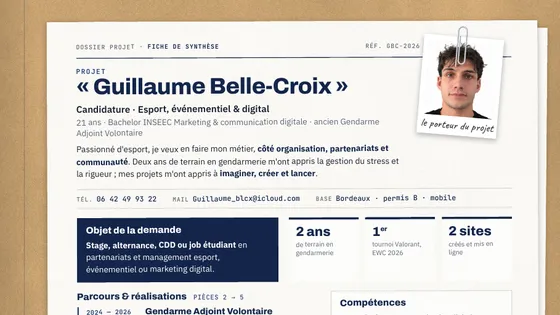
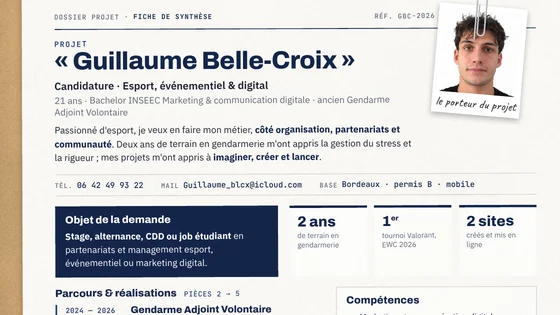
Vignettes Dossier et CV recadrées sans bords clairs, survol rose
Claude-Session: https://claude.ai/code/session_012wzja54trYe7YAVCXgccqo

diff --git a/index.html b/index.html
@@ -109,7 +109,7 @@ a{color:inherit}
 .tile{position:relative;display:block;aspect-ratio:16/9;border-radius:8px;overflow:hidden;background:#15131f center/cover no-repeat;text-decoration:none;color:var(--ink);
   border:1px solid rgba(255,255,255,.08);cursor:pointer;font:inherit;text-align:left;padding:0;transition:transform .18s ease,border-color .18s ease}
 .tile::after{content:"";position:absolute;inset:0;background:linear-gradient(0deg,rgba(11,10,18,.92) 0%,rgba(11,10,18,.1) 62%)}
-.tile:hover,.tile:focus-visible{transform:translateY(-3px);border-color:rgba(255,255,255,.5)}
+.tile:hover,.tile:focus-visible{transform:translateY(-3px);border-color:rgba(255,46,99,.7)}
 .tile .t{pointer-events:none;position:absolute;z-index:1;left:14px;right:14px;bottom:12px;display:grid;gap:2px}
 .tile b{font-family:var(--display);font-weight:800;font-size:22px;line-height:1;text-transform:uppercase;letter-spacing:.02em}
 .tile small{font-size:12.5px;color:#bdb7c9}
@@ -228,10 +228,10 @@ img.ph{width:100%;object-fit:cover;display:block}
     <h2>Continuer</h2>
     <div class="tiles">
       <button class="tile" type="button" id="tile-cv" style="background-image:url(img/t_cv.webp?v=2)"><span class="bdg">3D</span><span class="t"><b>CV immersif</b></span></button>
-      <div class="tile pdf" style="background-image:url(img/t_dossier.webp?v=2);background-position:center top"><a class="cover" href="cv/CV_Guillaume_Belle-Croix_dossier.pdf?v=2" target="_blank" rel="noopener" aria-label="Voir le dossier"></a>
+      <div class="tile pdf" style="background-image:url(img/t_dossier.webp?v=3);background-position:center top"><a class="cover" href="cv/CV_Guillaume_Belle-Croix_dossier.pdf?v=2" target="_blank" rel="noopener" aria-label="Voir le dossier"></a>
         <span class="t"><b>Dossier</b><small>PDF · 7 pages</small></span>
         <span class="acts"><a href="cv/CV_Guillaume_Belle-Croix_dossier.pdf?v=2" target="_blank" rel="noopener">Voir</a><a href="cv/CV_Guillaume_Belle-Croix_dossier.pdf?v=2" download="CV_Guillaume_Belle-Croix_dossier.pdf" aria-label="Télécharger le dossier">↓</a></span></div>
-      <div class="tile pdf" style="background-image:url(img/t_fiche.webp);background-position:center top"><a class="cover" href="cv/CV_Guillaume_Belle-Croix_1page.pdf?v=4" target="_blank" rel="noopener" aria-label="Voir le CV 1 page"></a>
+      <div class="tile pdf" style="background-image:url(img/t_fiche.webp?v=2);background-position:center top"><a class="cover" href="cv/CV_Guillaume_Belle-Croix_1page.pdf?v=4" target="_blank" rel="noopener" aria-label="Voir le CV 1 page"></a>
         <span class="t"><b>CV</b><small>PDF · 1 page</small></span>
         <span class="acts"><a href="cv/CV_Guillaume_Belle-Croix_1page.pdf?v=4" target="_blank" rel="noopener">Voir</a><a href="cv/CV_Guillaume_Belle-Croix_1page.pdf?v=4" download="CV_Guillaume_Belle-Croix_1page.pdf" aria-label="Télécharger le CV">↓</a></span></div>
       <a class="tile plain" href="projets/"><span class="arr" aria-hidden="true">→</span><span class="t"><b>Mes projets</b><small>Clutch Esport · INSEEC Airlines</small></span></a>
